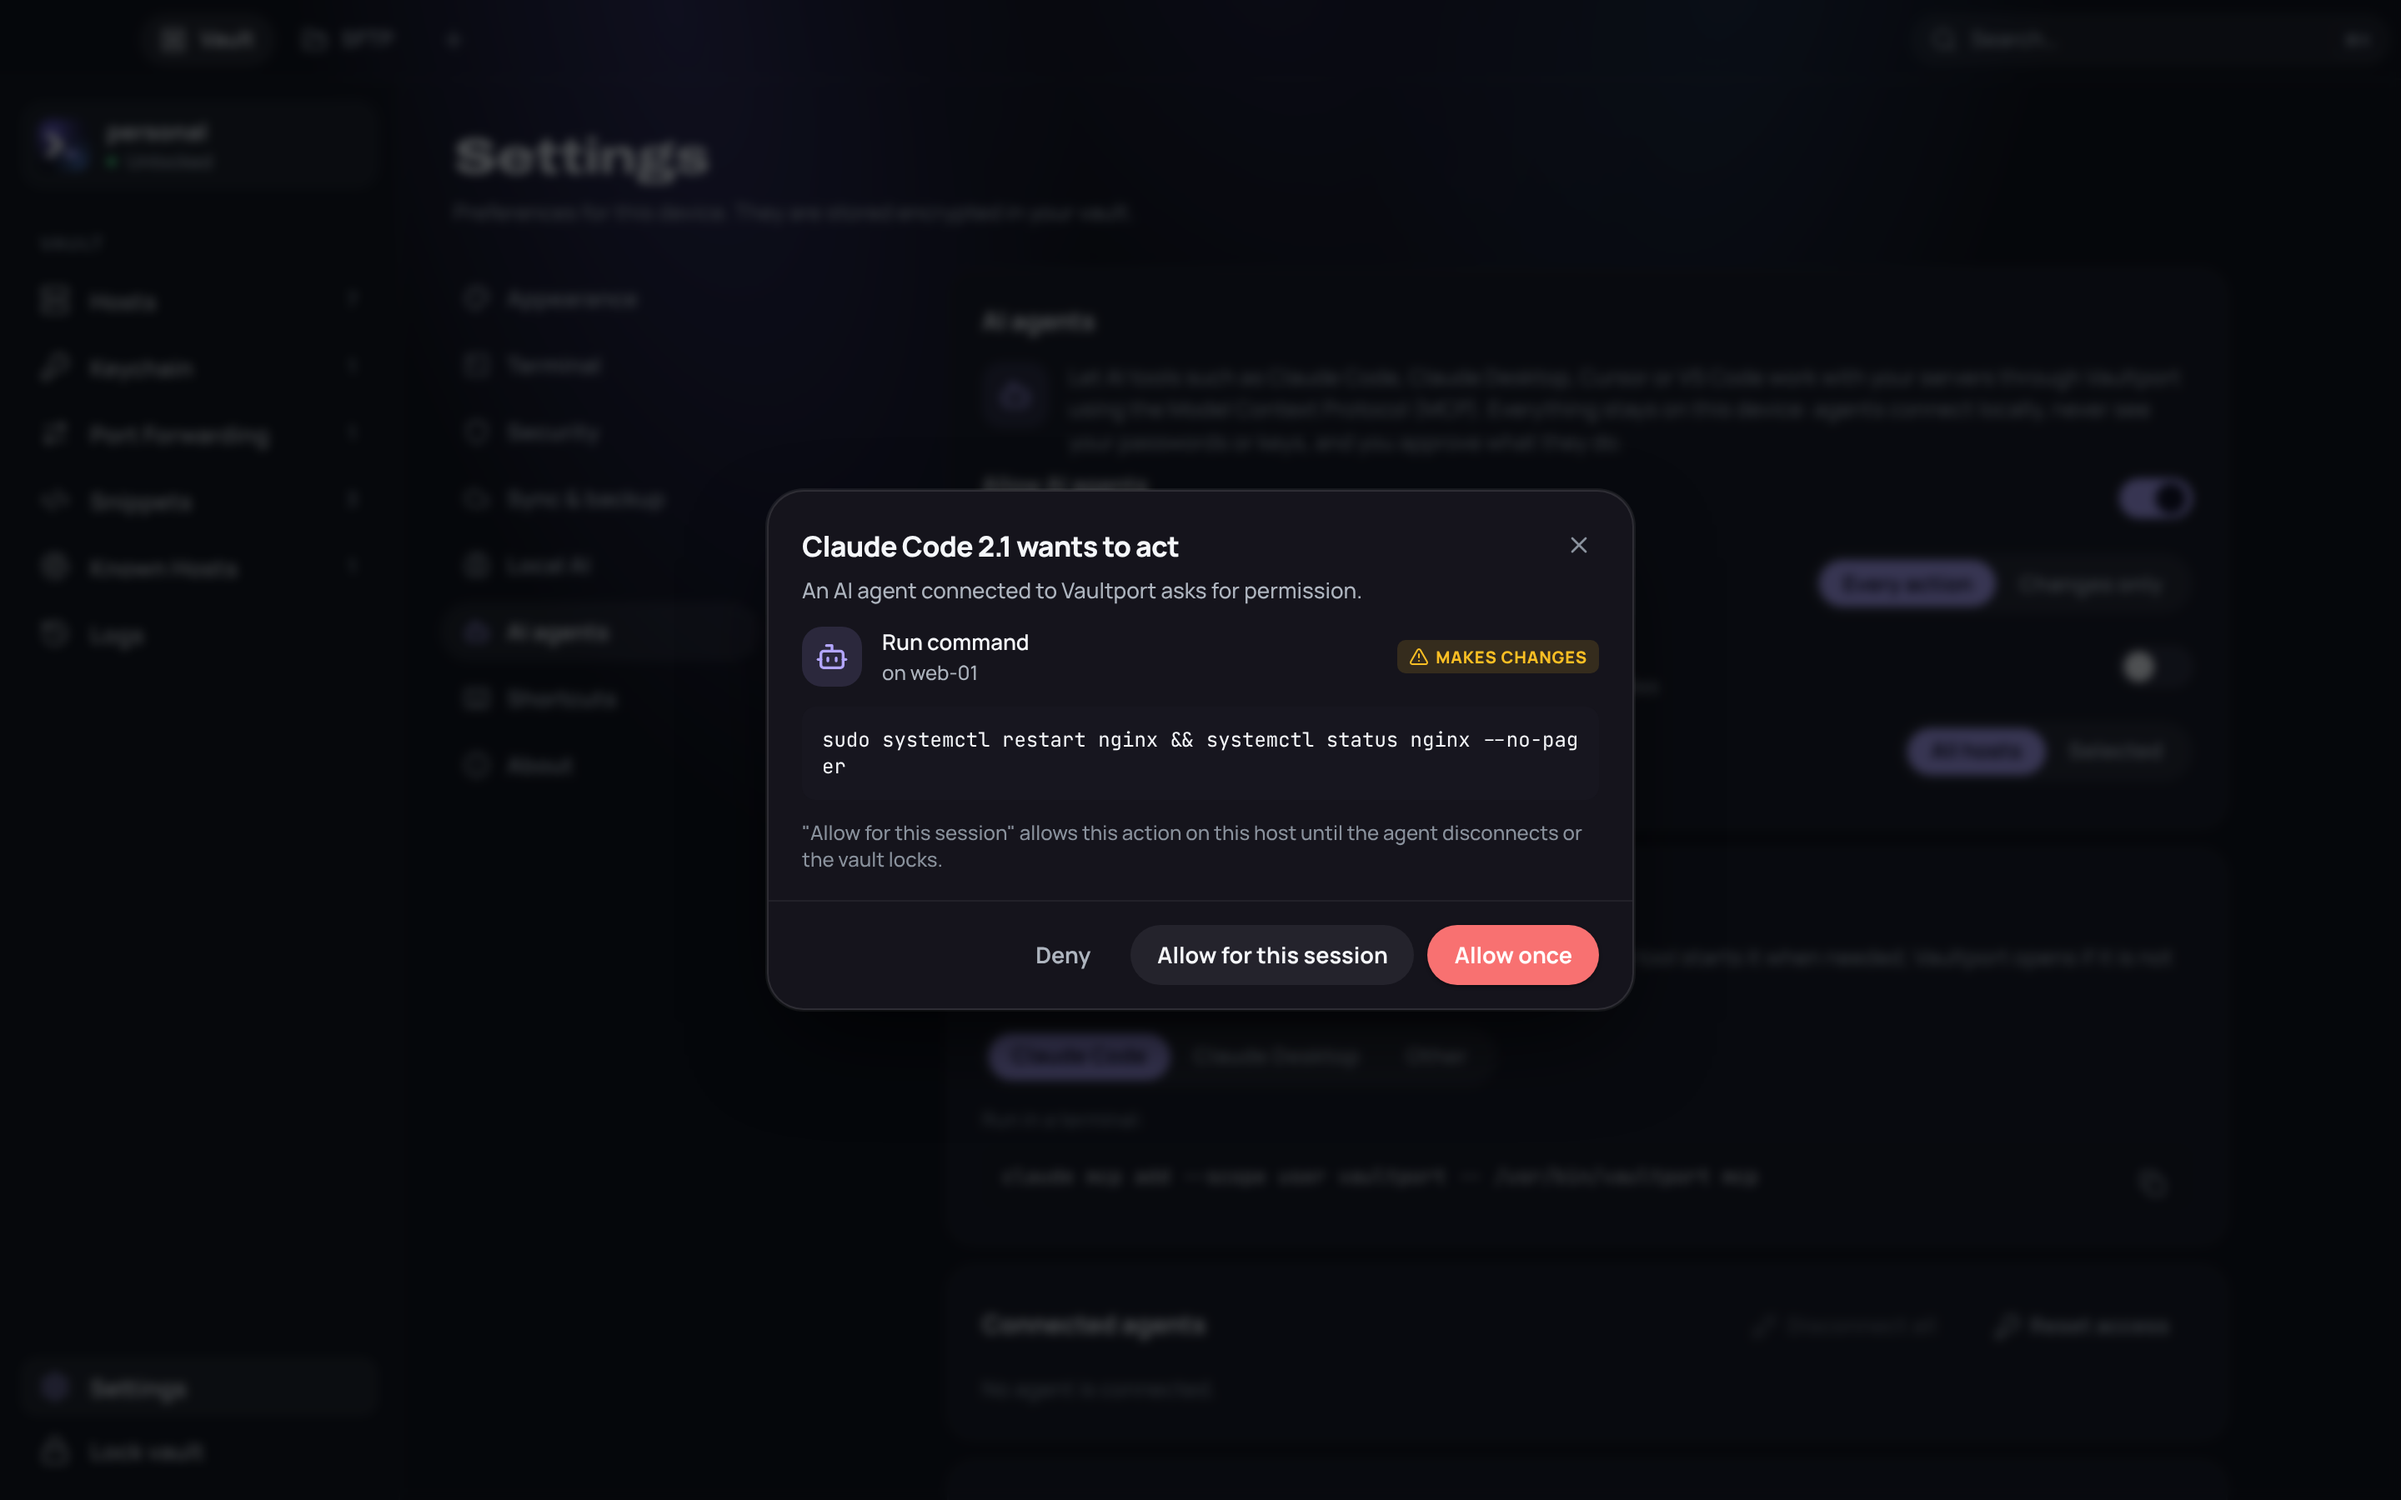
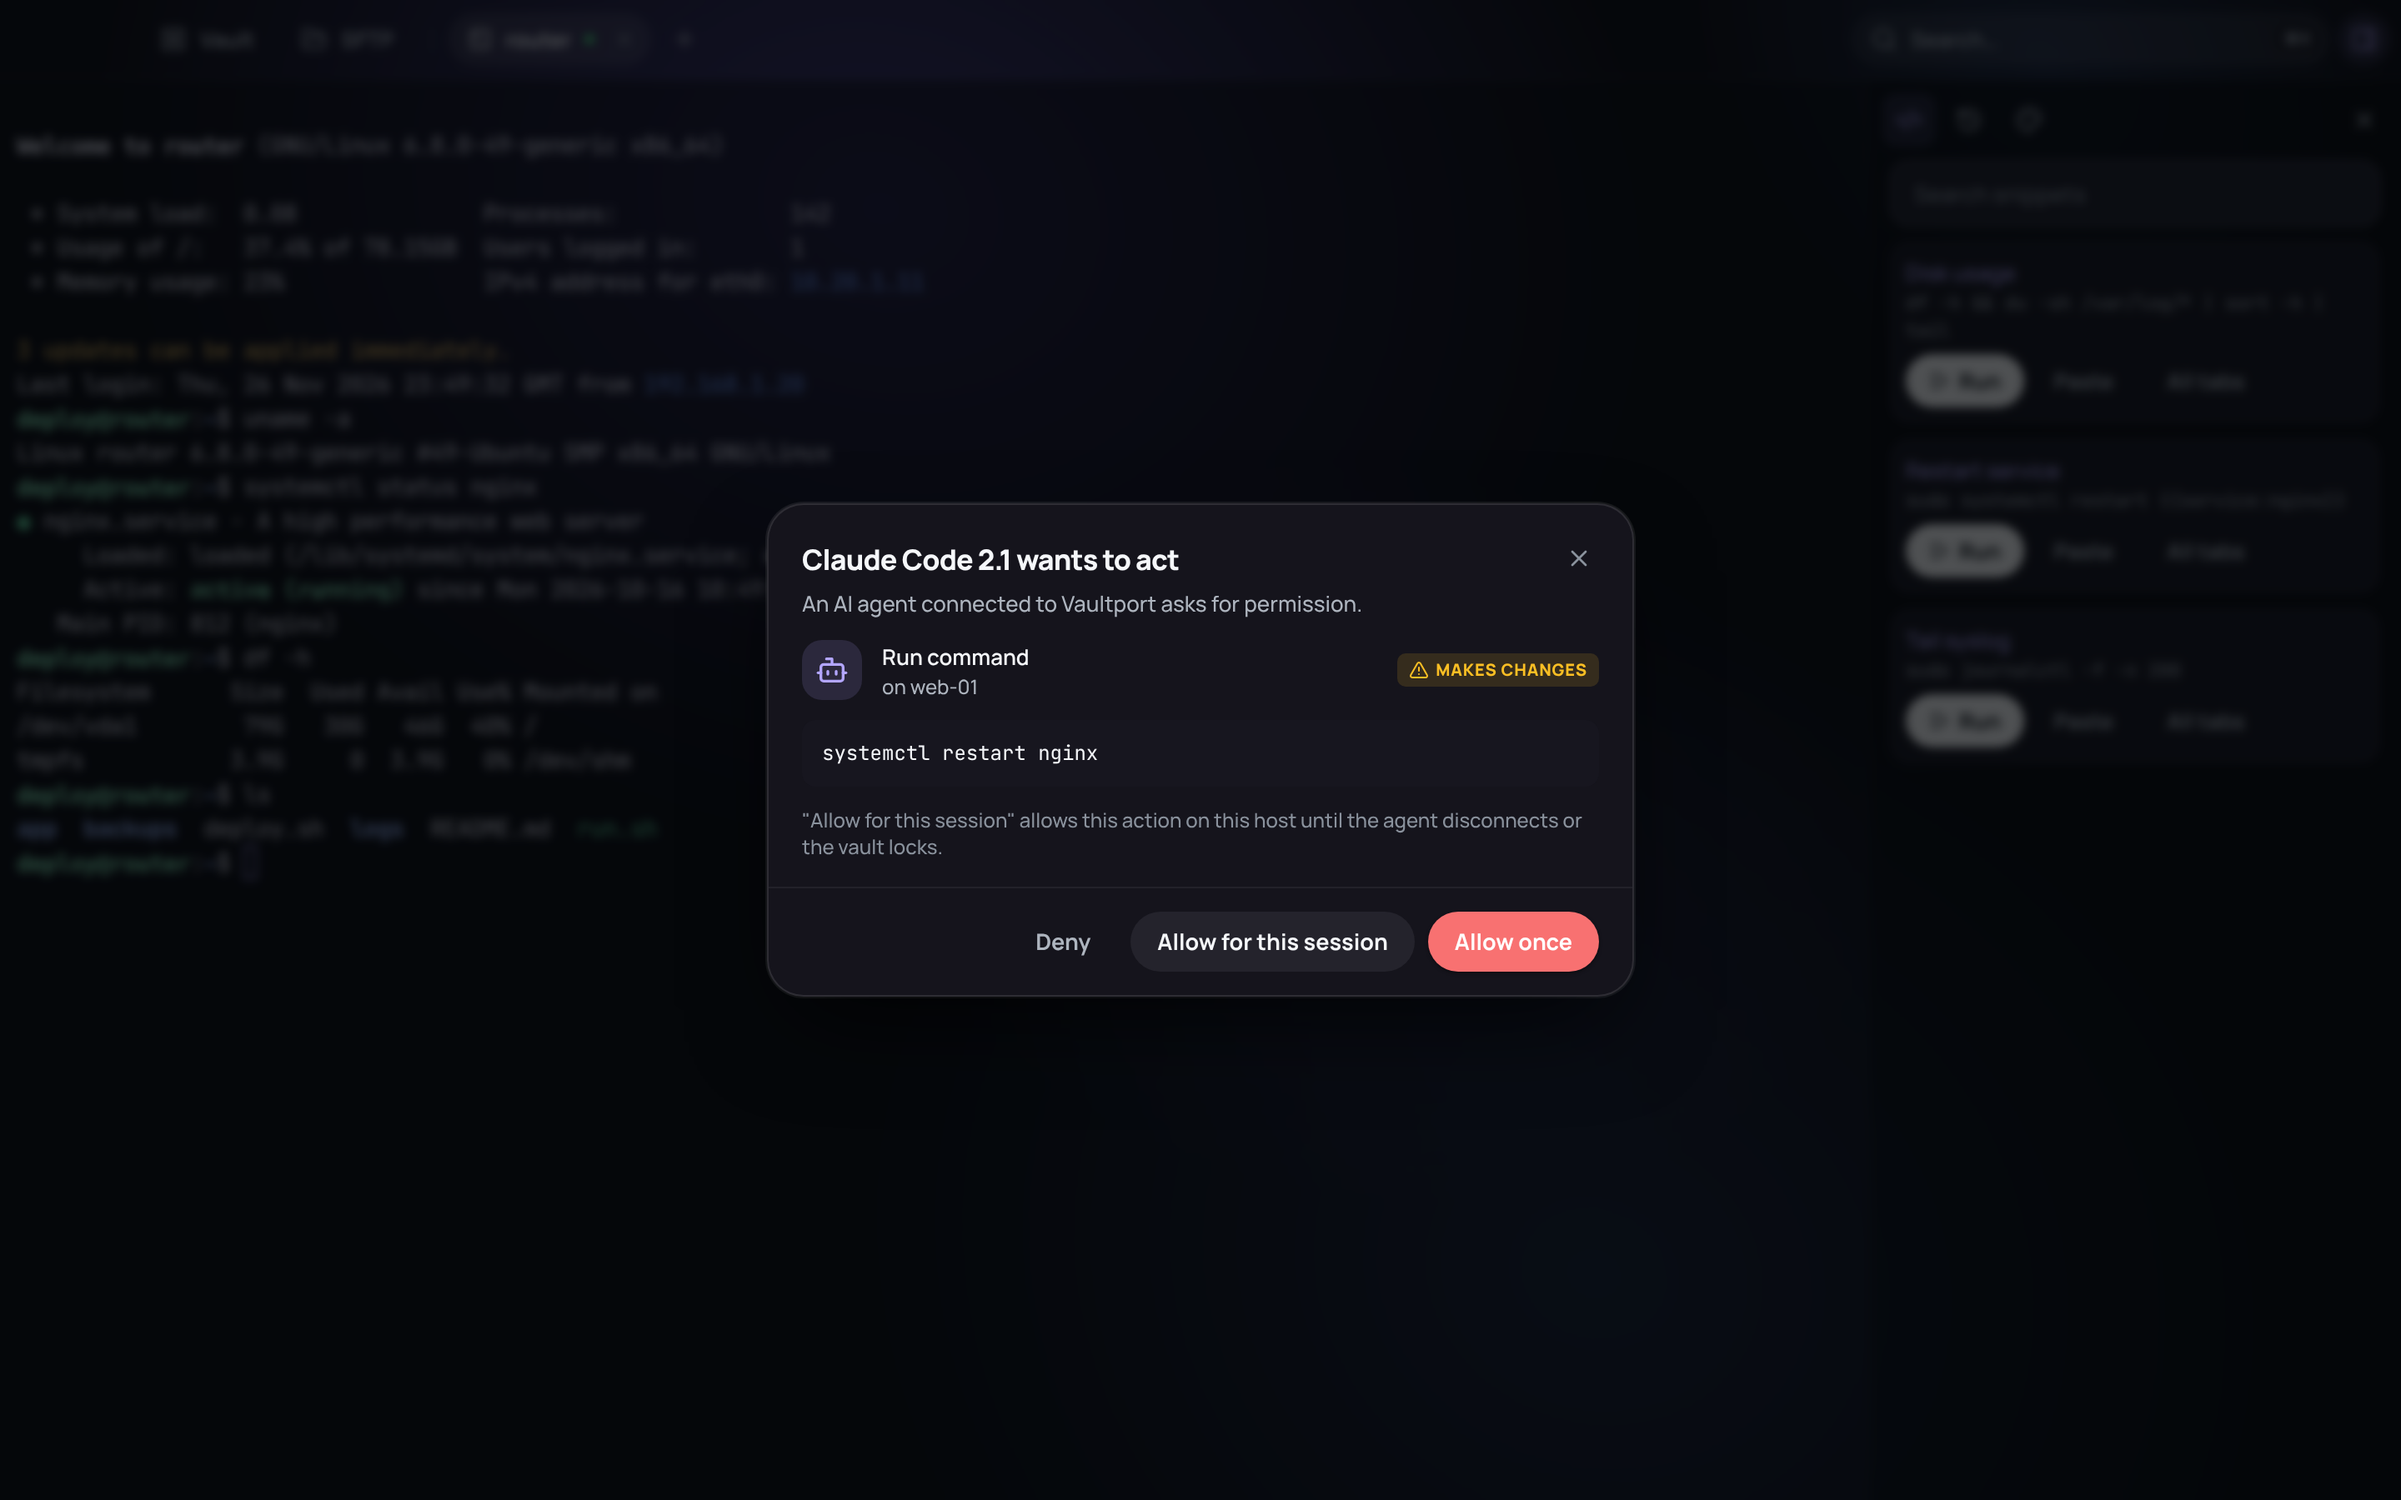
docs: showcase the Pulse theme in the README
Retake the screenshots in dark mode with the see-through Pulse terminal
theme and lay them out as a full-width terminal shot over an even 2×2
grid with captions: hosts, a broadcast workspace, an AI agent approval
and two phone screens composed into one 16:10 image. The features table
mentions the colour presets and the see-through terminal theme.

diff --git a/README.md b/README.md
@@ -21,13 +21,32 @@
 
 [Website & docs](https://vaultport.niessen.dev/) · [Download](https://vaultport.niessen.dev/download) · [llms.txt](https://vaultport.niessen.dev/llms.txt) · [Security](SECURITY.md) · [Contributing](CONTRIBUTING.md)
 
-![Hosts view](.github/screenshots/hosts.png)
+<p align="center">
+  <img src=".github/screenshots/terminal.png" alt="A terminal session in the see-through Pulse theme, with the snippets side panel open" width="100%" />
+  <br />
+  <sub><b>Pulse</b>, the default terminal theme: see-through over the app's living background glow, side panel included.</sub>
+</p>
 
 <table>
   <tr>
-    <td><img src=".github/screenshots/terminal.png" alt="Terminal session" /></td>
-    <td><img src=".github/screenshots/agent-approval.png" alt="Approving an AI agent's command" /></td>
-    <td width="22%"><img src=".github/screenshots/phone.png" alt="Phone layout" /></td>
+    <td width="50%" valign="top">
+      <img src=".github/screenshots/hosts.png" alt="The hosts view with groups, tags and the omnibox" />
+      <p align="center"><sub><b>Vault</b> · hosts, groups and tags in an encrypted vault</sub></p>
+    </td>
+    <td width="50%" valign="top">
+      <img src=".github/screenshots/workspace.png" alt="A workspace with four terminals and broadcast input" />
+      <p align="center"><sub><b>Workspaces</b> · split terminals with broadcast input</sub></p>
+    </td>
+  </tr>
+  <tr>
+    <td width="50%" valign="top">
+      <img src=".github/screenshots/agent-approval.png" alt="Approving a command an AI agent wants to run" />
+      <p align="center"><sub><b>AI agents</b> · every action waits for your approval</sub></p>
+    </td>
+    <td width="50%" valign="top">
+      <img src=".github/screenshots/phones.png" alt="The hosts list and a terminal on a phone" />
+      <p align="center"><sub><b>Phones &amp; tablets</b> · the same vault, touch-first</sub></p>
+    </td>
   </tr>
 </table>
 
@@ -61,7 +80,7 @@
 | Sync              | End-to-end encrypted, conflict-free sync through a folder (iCloud Drive, Dropbox, Syncthing…), WebDAV or S3-compatible storage, encrypted `.vaultport` backups, QR pairing.                                                                                        |
 | Local AI          | Optional command generation with a small model that downloads automatically and runs fully on the device. Suggestions are inserted, never executed.                                                                                                               |
 | AI agents         | Built-in [MCP](https://modelcontextprotocol.io) server: Claude Code, Claude Desktop, Cursor, VS Code or Codex can list hosts, run commands, read and write files and manage tunnels — locally, without seeing credentials, with your approval in the app.         |
-| Design            | Native-feeling custom title bar per OS, dark/light themes, keyboard-first with a command palette, responsive from phone to desktop, English and German.                                                                                                           |
+| Design            | Native-feeling custom title bar per OS, dark/light themes and colour presets, a see-through default terminal theme over a living background glow, keyboard-first with a command palette, responsive from phone to desktop, English and German.                    |
 
 ## Security at a glance
 
